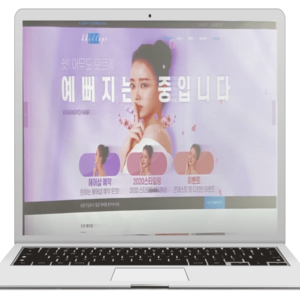
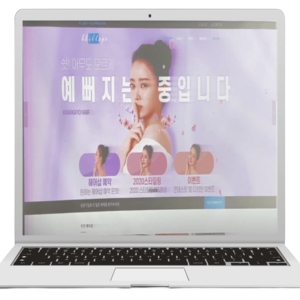
project_item_info 추가

diff --git a/style.css b/style.css
@@ -402,14 +402,50 @@ main .title{
     margin: 25px 0px;
     /* text-align: center; */
 }
+
 .project_item{
-    text-align: center;
     display: inline-block;
-    width: 31%;
-    /* border: 1px solid #c0c0c0; */
-    margin: 5px;
+    position : relative;
+    width: 265px;
+    height: 265px;
+    margin: 2px;
+    background: #ebebeb;
+    text-align: center;
     /* padding-bottom: 20%; 이걸 주면 정사각형 모양으로 바꿀 수 있음 */
+    
 }
+.project_item a{
+    z-index: 10;
+    width: 100%;
+    height: 100%;
+    display: flex;
+    justify-content: center;
+    align-items: center;
+}
+.project_item img{
+    max-width: 200px;
+    max-height: 200px;
+}
+
+.project_item_info{
+    opacity: 0;
+    background-color: black;
+    color: #ebebeb;;
+    position: absolute;
+    top: 0;
+    left: 0;
+    width: 100%;
+    height: 100%;
+    display: flex;
+    justify-content: center;
+    align-items: center;
+}
+.project_item_info:hover{
+    opacity: 0.7;
+    transition: opacity 300ms ease;
+}
+
+
 
 
 /* testimonial  */
@@ -522,9 +558,12 @@ main .title{
     .project__btn_item{
         width: 100%;
     }
-    .project_item{
-        width: 45%;
+    .project__list{
+        text-align:center
     }
+    /* .project_item{
+        width: 45%;
+    } */
     /* contact */
     .contact{
         text-align: center;

diff --git a/main.js b/main.js
@@ -113,7 +113,10 @@ function getProjectList(type,initOption){
             const project_item = document.createElement('li')
             project_item.classList.add('project_item')
             project_item.innerHTML = `
-                <a href="${project.href}"><img width='100%' height='100%' src="${project.img}"/></a>
+                <a href="${project.href}">
+                    <img src="${project.img}"/>
+                    <div class="project_item_info">${project.info}</div>
+                </a>
             `
             project__list.appendChild(project_item)
         })
